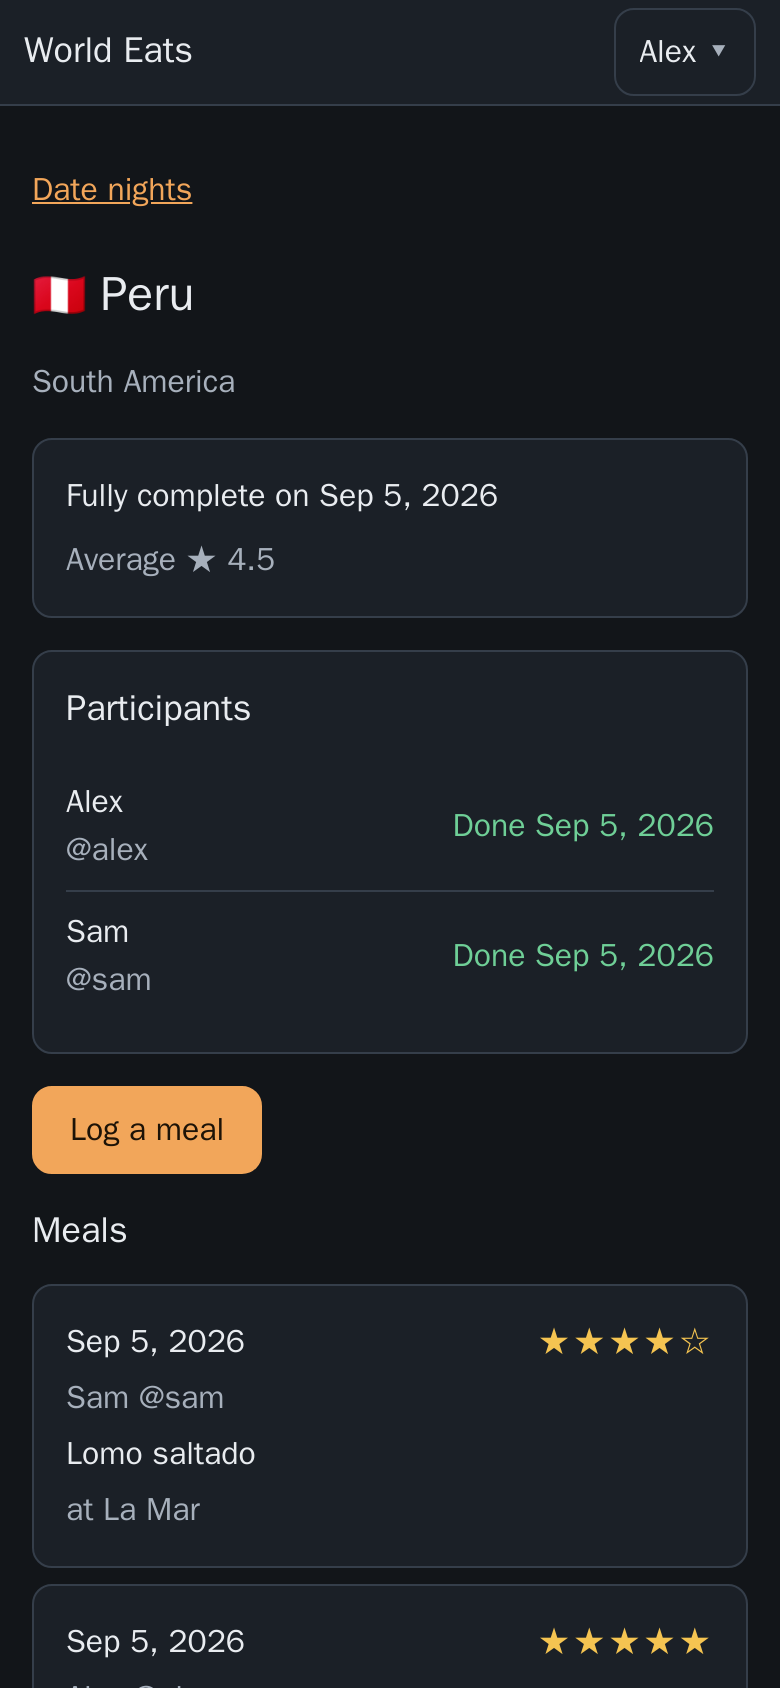
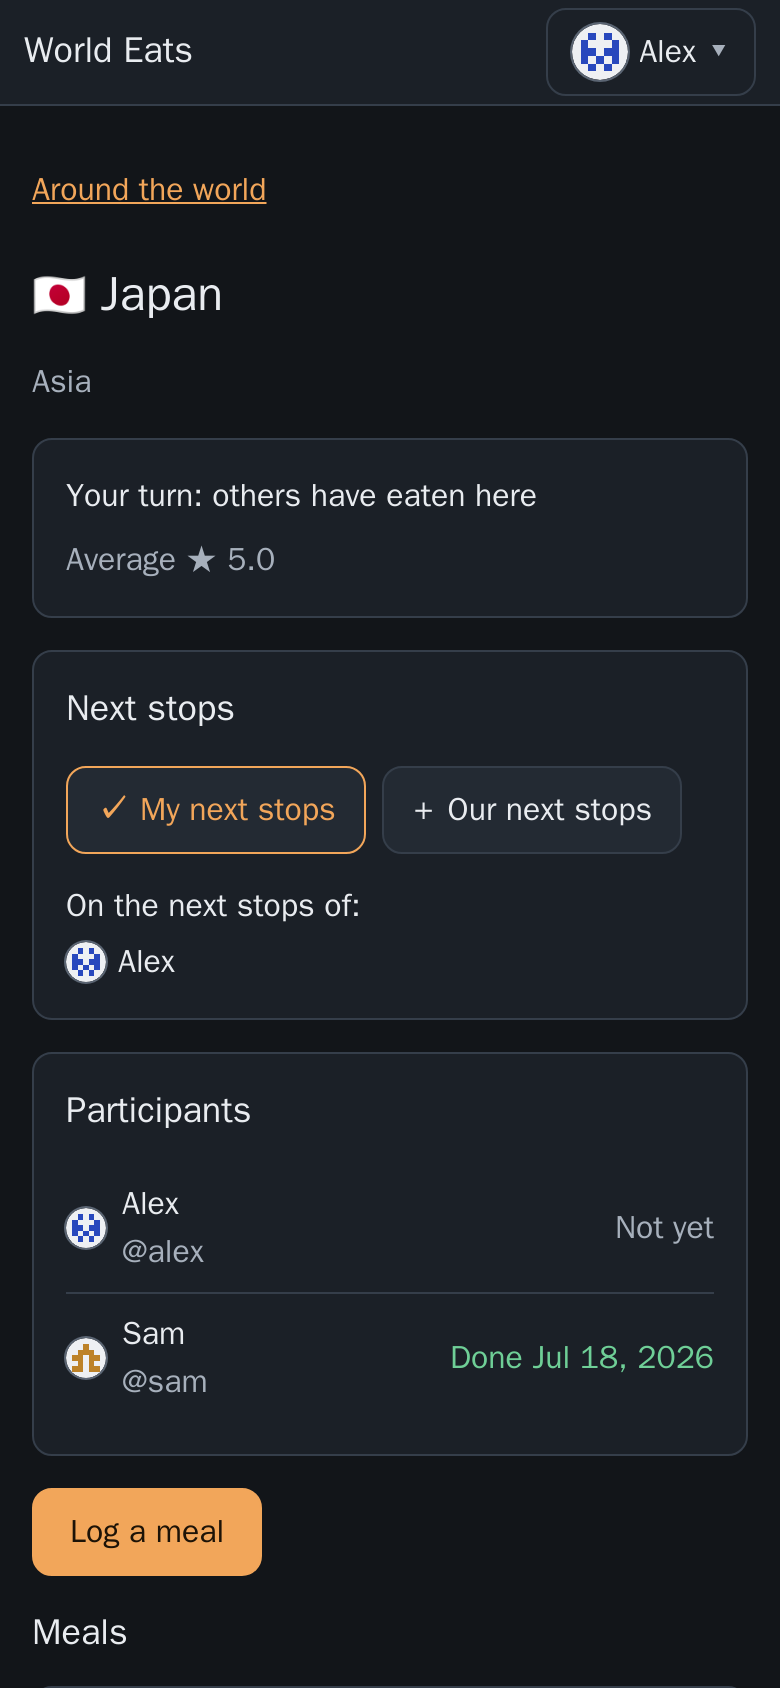
Prepare release 0.3.0-beta
The compose file and the README's clone example now name 0.3.0-beta. The
README describes avatars and profile photos, Next stops, map pins and the
new Next stops filter, notes that a release can update the database on
first start and that going back to an older release isn't supported, and
lists the new files. Screenshots retaken with the sample users Alex and Sam
to show avatars, Next stops pins and badges.

diff --git a/README.md b/README.md
@@ -44,11 +44,13 @@ The screenshots use sample users (Alex and Sam).
 ## Features
 
 - **Accounts without sign-up.** The first visit to a fresh install shows a setup page that creates the first admin. After that, admins create, disable, delete and promote users, reset passwords and unlock locked accounts. Sessions last 30 days and can run on several devices; "Log out everywhere" is in account settings.
+- **Avatars and profile photos.** Every account gets a generated avatar (a symmetric pattern; "New pattern" in account settings picks another). You can upload a profile photo instead: crop it in the browser (drag and zoom, with a circle preview), and it's saved as a small 256 x 256 JPEG with all metadata (camera, GPS) stripped by the server. Avatars and photos show beside names everywhere and are visible to everyone logged in. You can replace or remove your photo; admins can remove anyone's.
 - **Passports.** A passport is one challenge. Every account gets a personal passport (named "My passport"; it can't be deleted and can't have participants). You can also create shared passports, up to 50 owned per user and 20 people each. *Participants* each log their own meals; *viewers* can see everything but can't log. Only the owner renames or deletes a passport or changes who is in it. You can choose which passport the app opens to.
 - **Meals.** Log the date, what you ate, where, a 1-5 star rating and notes (all optional except the date). You can log several meals per country, and edit or delete your own. A country counts as done for you once you have logged a meal there, and is *fully complete* when every active participant has.
-- **Search, sort and filters.** Search ignores case and accents and matches country names, alternative names (for example "Burma" finds Myanmar) and everyone's meals. Sort by name, region, date completed, rating or progress; filter by status, who has done it, region and minimum rating. The state is kept in the page address.
+- **Search, sort and filters.** Search ignores case and accents and matches country names, alternative names (for example "Burma" finds Myanmar) and everyone's meals. Sort by name, region, date completed, rating or progress; filter by status, who has done it, region, minimum rating and next stops. The state is kept in the page address.
 - **Random pick.** "Pick a country" chooses at random among the countries you haven't done that match the current search and filters, and reveals it on an airport split-flap departure board (it respects the browser's reduced-motion setting). The pick isn't saved.
-- **World map.** Equal Earth projection, drawn from bundled Natural Earth data. Countries are coloured by status: in a shared passport each participant sees *Not started*, *Your turn* (someone else has eaten there, you haven't), *Waiting on others* (you have, someone else hasn't) and *Fully complete*, and the list and filters use the same states. Tap one to see a summary card, and zoom with pinch, mouse wheel and drag, or the +, - and Reset buttons. Tiny countries appear as dots. A List / Map switch sits under the search bar.
+- **Next stops.** Keep a list of countries to try next: each participant has their own "My next stops", and a shared passport also has "Our next stops" that anyone in it can change (entries show who added them). Add or remove countries from the country page, the map card or a random pick. Logging a meal takes a country off your own list, and a fully complete country leaves the shared one. The list shows who has a country on their next stops, and a filter narrows the list, map and random pick to mine, ours or anyone's.
+- **World map.** Equal Earth projection, drawn from bundled Natural Earth data. Countries are coloured by status: in a shared passport each participant sees *Not started*, *Your turn* (someone else has eaten there, you haven't), *Waiting on others* (you have, someone else hasn't) and *Fully complete*, and the list and filters use the same states. Tap one to see a summary card, and zoom with pinch, mouse wheel and drag, or the +, - and Reset buttons. Tiny countries appear as dots. Countries on someone's next stops get a push pin with that person's avatar (an orange pin for the shared list); a Pins switch hides them. A List / Map switch sits under the search bar.
 
 ## Known limitations
 
@@ -62,7 +64,7 @@ The screenshots use sample users (Alex and Sam).
 Requirements: Docker with Compose. Use a [release](https://github.com/dskindell/world-eats/releases) rather than the tip of `main`: `main` can already name the next version's image before it's published.
 
 ```bash
-git clone --branch v0.2.0-beta https://github.com/dskindell/world-eats.git && cd world-eats
+git clone --branch v0.3.0-beta https://github.com/dskindell/world-eats.git && cd world-eats
 mkdir -m 700 data      # owned by you; compose runs the app as UID/GID 1000 to match
 docker compose up -d
 ```
@@ -77,7 +79,7 @@ Open the app and create the first account on the setup page. **Complete setup be
 
 | Tag | Points at |
 |---|---|
-| `0.2.0-beta` (any exact version) | That release, never changed |
+| `0.3.0-beta` (any exact version) | That release, never changed |
 | `beta` | The newest beta release (it stays on the last beta once stable releases exist) |
 | `latest` | The newest stable release (none yet) |
 
@@ -87,6 +89,8 @@ The compose file names its release's exact version. To upgrade, [back up](#backu
 git fetch --tags && git checkout vX.Y.Z
 docker compose pull && docker compose up -d
 ```
+
+A new release may update the database when it first starts; this happens automatically. Going back to an older release afterwards isn't supported, which is one more reason to back up first.
 
 ### Building from source
 
@@ -218,6 +222,7 @@ Ideas that might be explored one day. They're not commitments, and there's no ti
 
 - `app/server.py` - HTTP server, routing and request handling.
 - `app/auth.py`, `app/config.py`, `app/db.py`, `app/countries.py`, `app/meals.py`, `app/passports.py`, `app/search.py` - validation, passwords and lockout; configuration; SQLite schema and migrations; the country list; meals; passports; search.
+- `app/photos.py` - checks uploaded profile photos and rebuilds them without metadata.
 - `app/errors.py` - the server's error codes and their English messages.
 - `app/static/` - frontend (vanilla HTML/JS/CSS, no build step), the interface text in `strings-en.js`, and the generated `map.json`.
 - `app/Dockerfile` - the image (Python 3.12 slim, runs as a non-root user).
